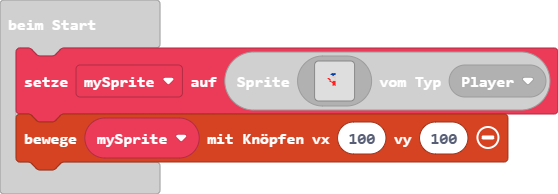
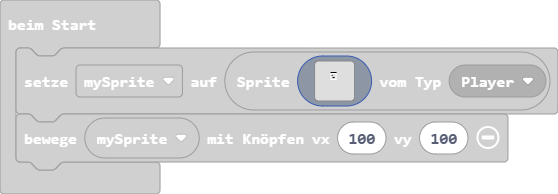
Aktualisiere main.blocks, main.ts

diff --git a/main.ts b/main.ts
@@ -6,20 +6,20 @@ let mySprite = sprites.create(img`
     ................................
     ................................
     ................................
+    ............ffffff..............
+    ............111111..............
+    ............1....1..............
+    ............1f...1..............
+    ............1....1..............
+    ............1.ff.1..............
+    ............1....1..............
+    ............111111..............
     ................................
-    .............8228...............
-    ............88888...............
-    .............dfdd...............
-    .............dddd...............
-    ..............ddd...............
-    .........22.....d...............
-    ..........22....d...............
-    ...........2..ddd...............
-    ...........22.222...............
-    .............2222...............
-    ..............222...............
-    ..............222...............
-    ..............2.2...............
+    ................................
+    ................................
+    ................................
+    ................................
+    ................................
     ................................
     ................................
     ................................
